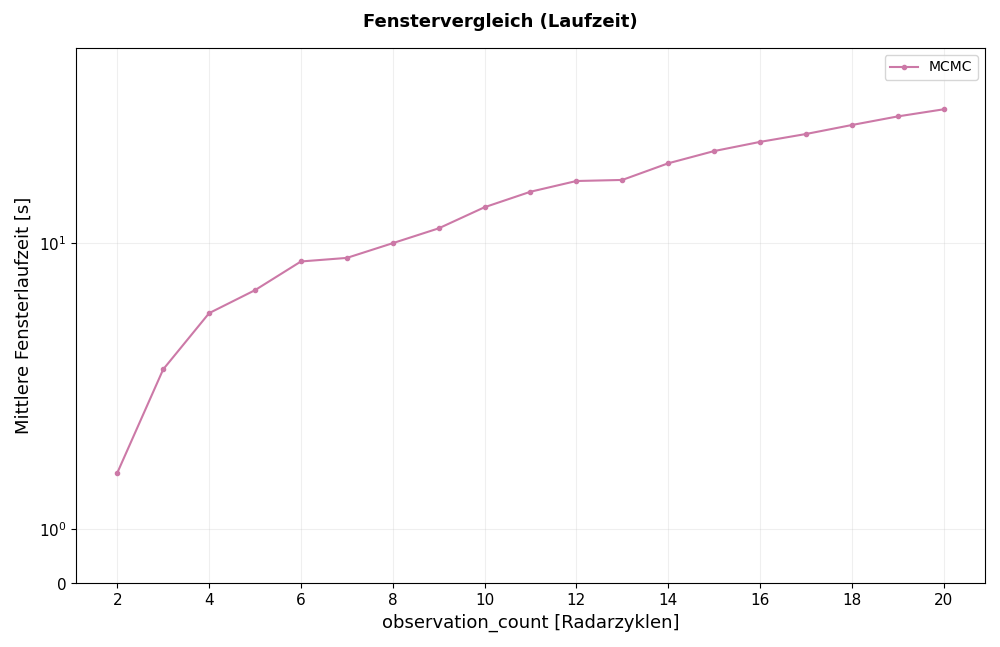
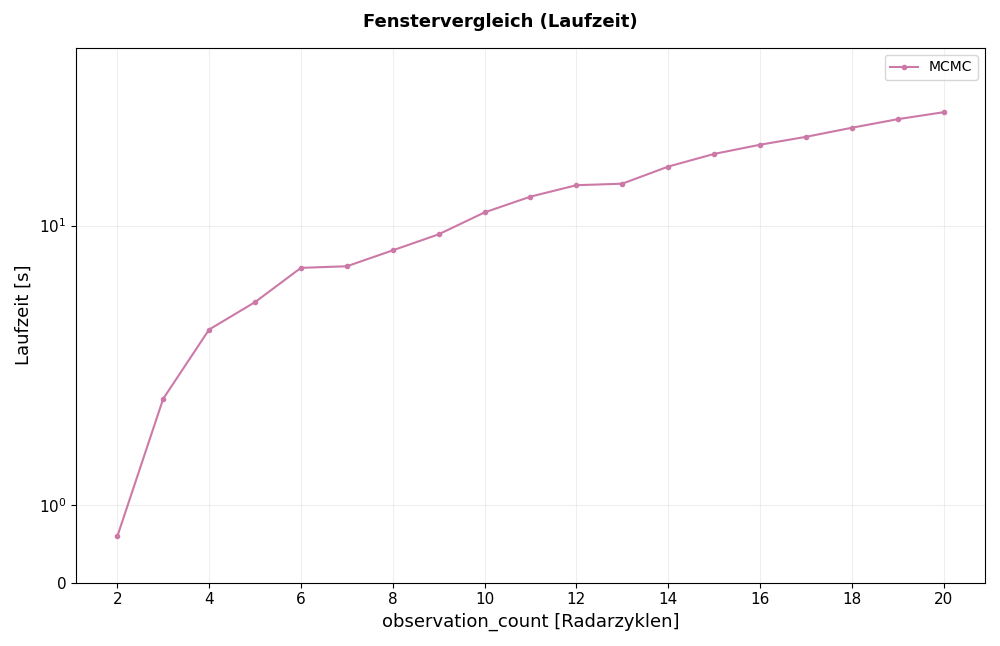
Use fit runtime consistently across model and window comparisons

diff --git a/tests/test_compare_observation_counts.py b/tests/test_compare_observation_counts.py
@@ -132,6 +132,7 @@ def test_reader_recomputes_metrics_and_counts_runtime_once_per_window(result_dir
         np.testing.assert_allclose(table["mean_energy_score_m"], counts * 1.25)
         np.testing.assert_allclose(table["mean_negative_log_predictive_density"], 1.25)
         np.testing.assert_allclose(table["mean_window_runtime_seconds"], counts * 2.0)
+        np.testing.assert_allclose(table["mean_fit_runtime_seconds"], counts * 0.15)
         np.testing.assert_allclose(
             table["total_computation_time_seconds"], counts * 4.0
         )
@@ -144,6 +145,24 @@ def test_reader_recomputes_metrics_and_counts_runtime_once_per_window(result_dir
         else:
             assert table["mcmc_rhat_max"].isna().all()
             np.testing.assert_allclose(table["vi_convergence_rate"], 0.5)
+
+
+@pytest.mark.parametrize("method", ["mcmc", "vi"])
+def test_comparisons_use_the_same_fit_runtime_per_window(result_dirs, method):
+    table = _predictions(method, 3)
+    _, series = runtime_plotting._rolling_window_metric_series(table)
+    sweep = _read(result_dirs)[method.upper()].set_index("observation_count")
+
+    assert "mean_fit_runtime_seconds" in runtime_plotting.OBSERVATION_COUNT_METRICS
+    assert (
+        "mean_window_runtime_seconds" not in runtime_plotting.OBSERVATION_COUNT_METRICS
+    )
+    assert sweep.loc[3, "mean_fit_runtime_seconds"] == pytest.approx(
+        series["fit_runtime_seconds"].mean()
+    )
+    # Unequal horizons must not weight one window's runtime more heavily.
+    assert sweep.loc[3, "mean_fit_runtime_seconds"] == pytest.approx(0.45)
+    assert sweep.loc[3, "mean_window_runtime_seconds"] == pytest.approx(6.0)
 
 
 @pytest.mark.parametrize("method", ["mcmc", "vi"])
@@ -572,7 +591,7 @@ def test_observation_count_summary_table_preserves_metrics_and_fits_labels(
         assert cells[count, 0].get_text().get_text() == f"MCMC (n={count + 1})"
         assert cells[1, 1].get_text().get_text() == "5.000"
         assert cells[1, 6].get_text().get_text() == "20.0%"
-        assert cells[1, 8].get_text().get_text() == "4.000"
+        assert cells[1, 8].get_text().get_text() == "0.300"
         assert cells[1, 1].get_text().get_weight() == "bold"
         assert cells[2, 6].get_text().get_weight() == "bold"
         assert cells[2, 7].get_text().get_weight() == "bold"

diff --git a/src/bayestraj/validation/runtime_plotting.py b/src/bayestraj/validation/runtime_plotting.py
@@ -39,7 +39,7 @@ OBSERVATION_COUNT_METRICS = {
     ],
     "joint_coverage_50": COMPARISON_METRIC_LABELS["joint_coverage_50"],
     "joint_coverage_90": COMPARISON_METRIC_LABELS["joint_coverage_90"],
-    "mean_window_runtime_seconds": ("Runtime [s]", "Mean Window Runtime"),
+    "mean_fit_runtime_seconds": ("Runtime [s]", "Runtime"),
 }
 COMPARISON_PLOT_TEXT = {
     "de": {
@@ -470,12 +470,8 @@ def plot_observation_count_comparison(
         elif metric_y_scale == "symlog":
             lower, upper = axis.get_ylim()
             axis.set_ylim(min(lower, 0.0), max(upper, 0.0))
-        if metric == "mean_window_runtime_seconds":
-            ylabel = (
-                "Mittlere Fensterlaufzeit [s]"
-                if plot_language == "de"
-                else "Mean window runtime [s]"
-            )
+        if metric == "mean_fit_runtime_seconds":
+            ylabel = f"{text['runtime']} [s]"
             metric_name = text["runtime"]
         axis.set_xlabel(xlabel, fontsize=style.axis_label_font_size)
         axis.set_ylabel(ylabel, fontsize=style.axis_label_font_size)
@@ -537,11 +533,7 @@ def plot_observation_count_comparison(
                 else "\nR-hat: maximum over parameters and windows; bold: closest to 1."
             )
         metric_labels = {metric: labels[0] for metric, labels in metrics.items()}
-        metric_labels["mean_window_runtime_seconds"] = (
-            "Mittlere Fenster-\nlaufzeit [s]"
-            if plot_language == "de"
-            else "Mean window\nruntime [s]"
-        )
+        metric_labels["mean_fit_runtime_seconds"] = f"{text['runtime']} [s]"
         figure, axis = _plot_comparison_summary_table(
             summary,
             list(configurations),

diff --git a/src/bayestraj/validation/comparison.py b/src/bayestraj/validation/comparison.py
@@ -347,6 +347,11 @@ def read_observation_count_evaluations(mcmc_dir=None, vi_dir=None):
                 else pd.NA,
                 data_file=record["data_file"] if record is not None else pd.NA,
                 rmse_m=float((table["position_error_m"] ** 2).mean() ** 0.5),
+                # Match the model comparison: count fit/forecast time once per
+                # origin, independently of the number of saved horizon rows.
+                mean_fit_runtime_seconds=float(
+                    table.groupby("window_index")["fit_runtime_seconds"].first().mean()
+                ),
                 mcmc_rhat_max=float(rhat.max()) if method == "mcmc" else np.nan,
             )
             rows.append(row)
